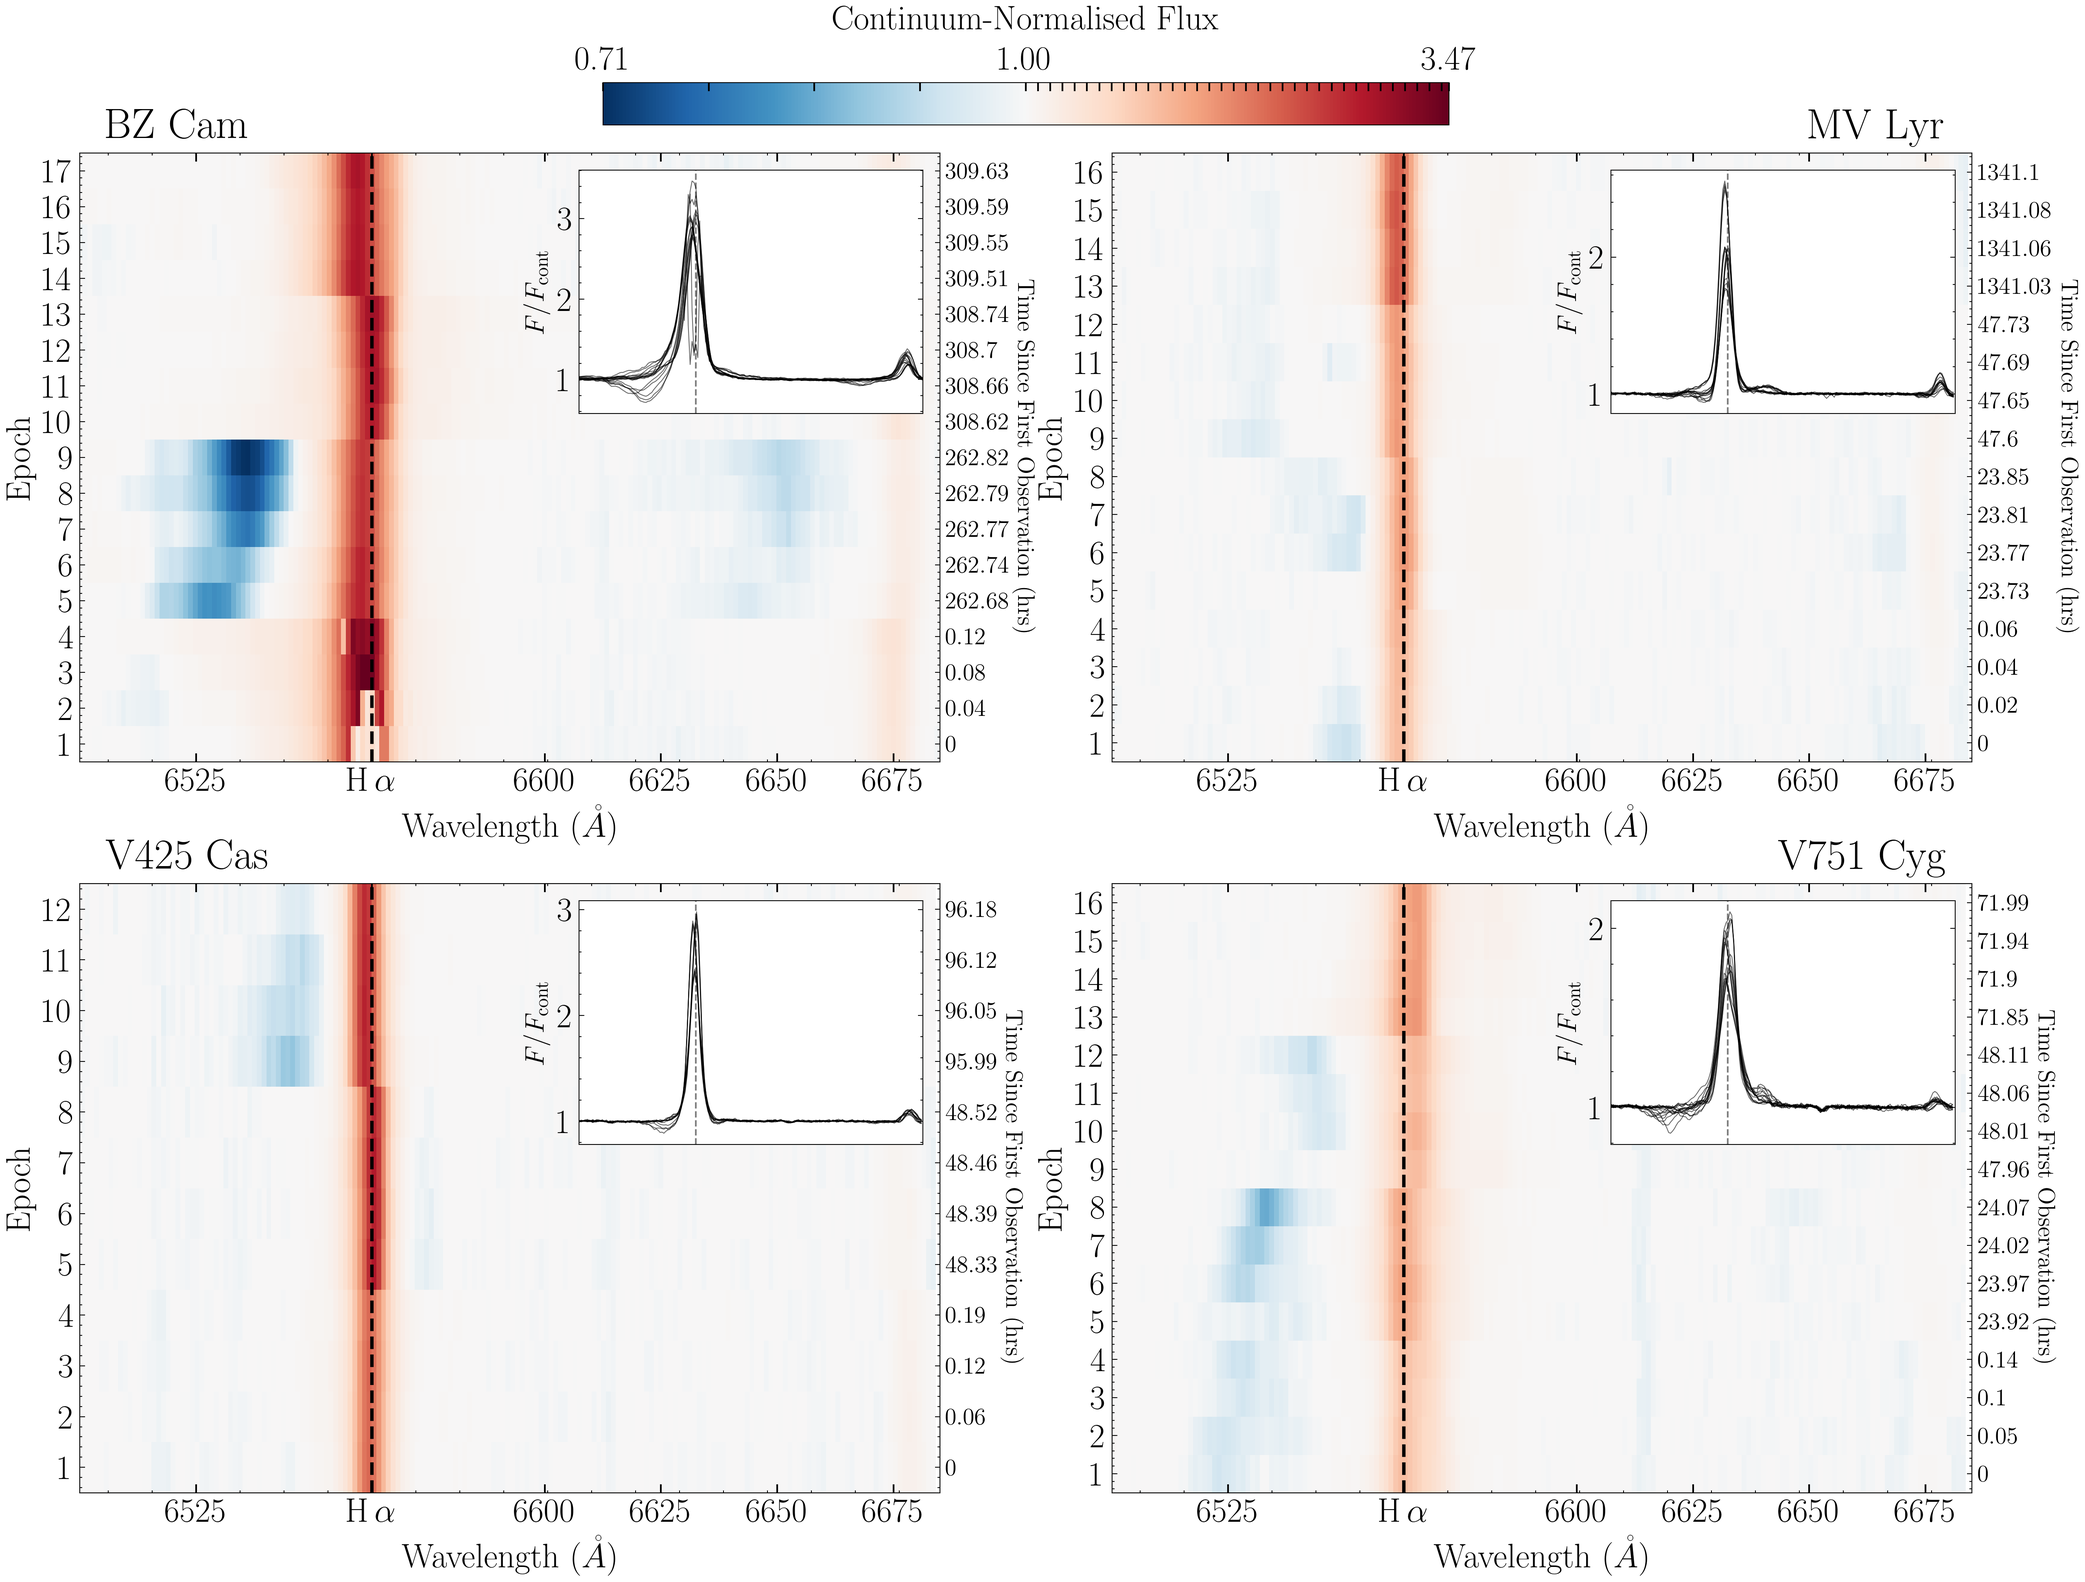
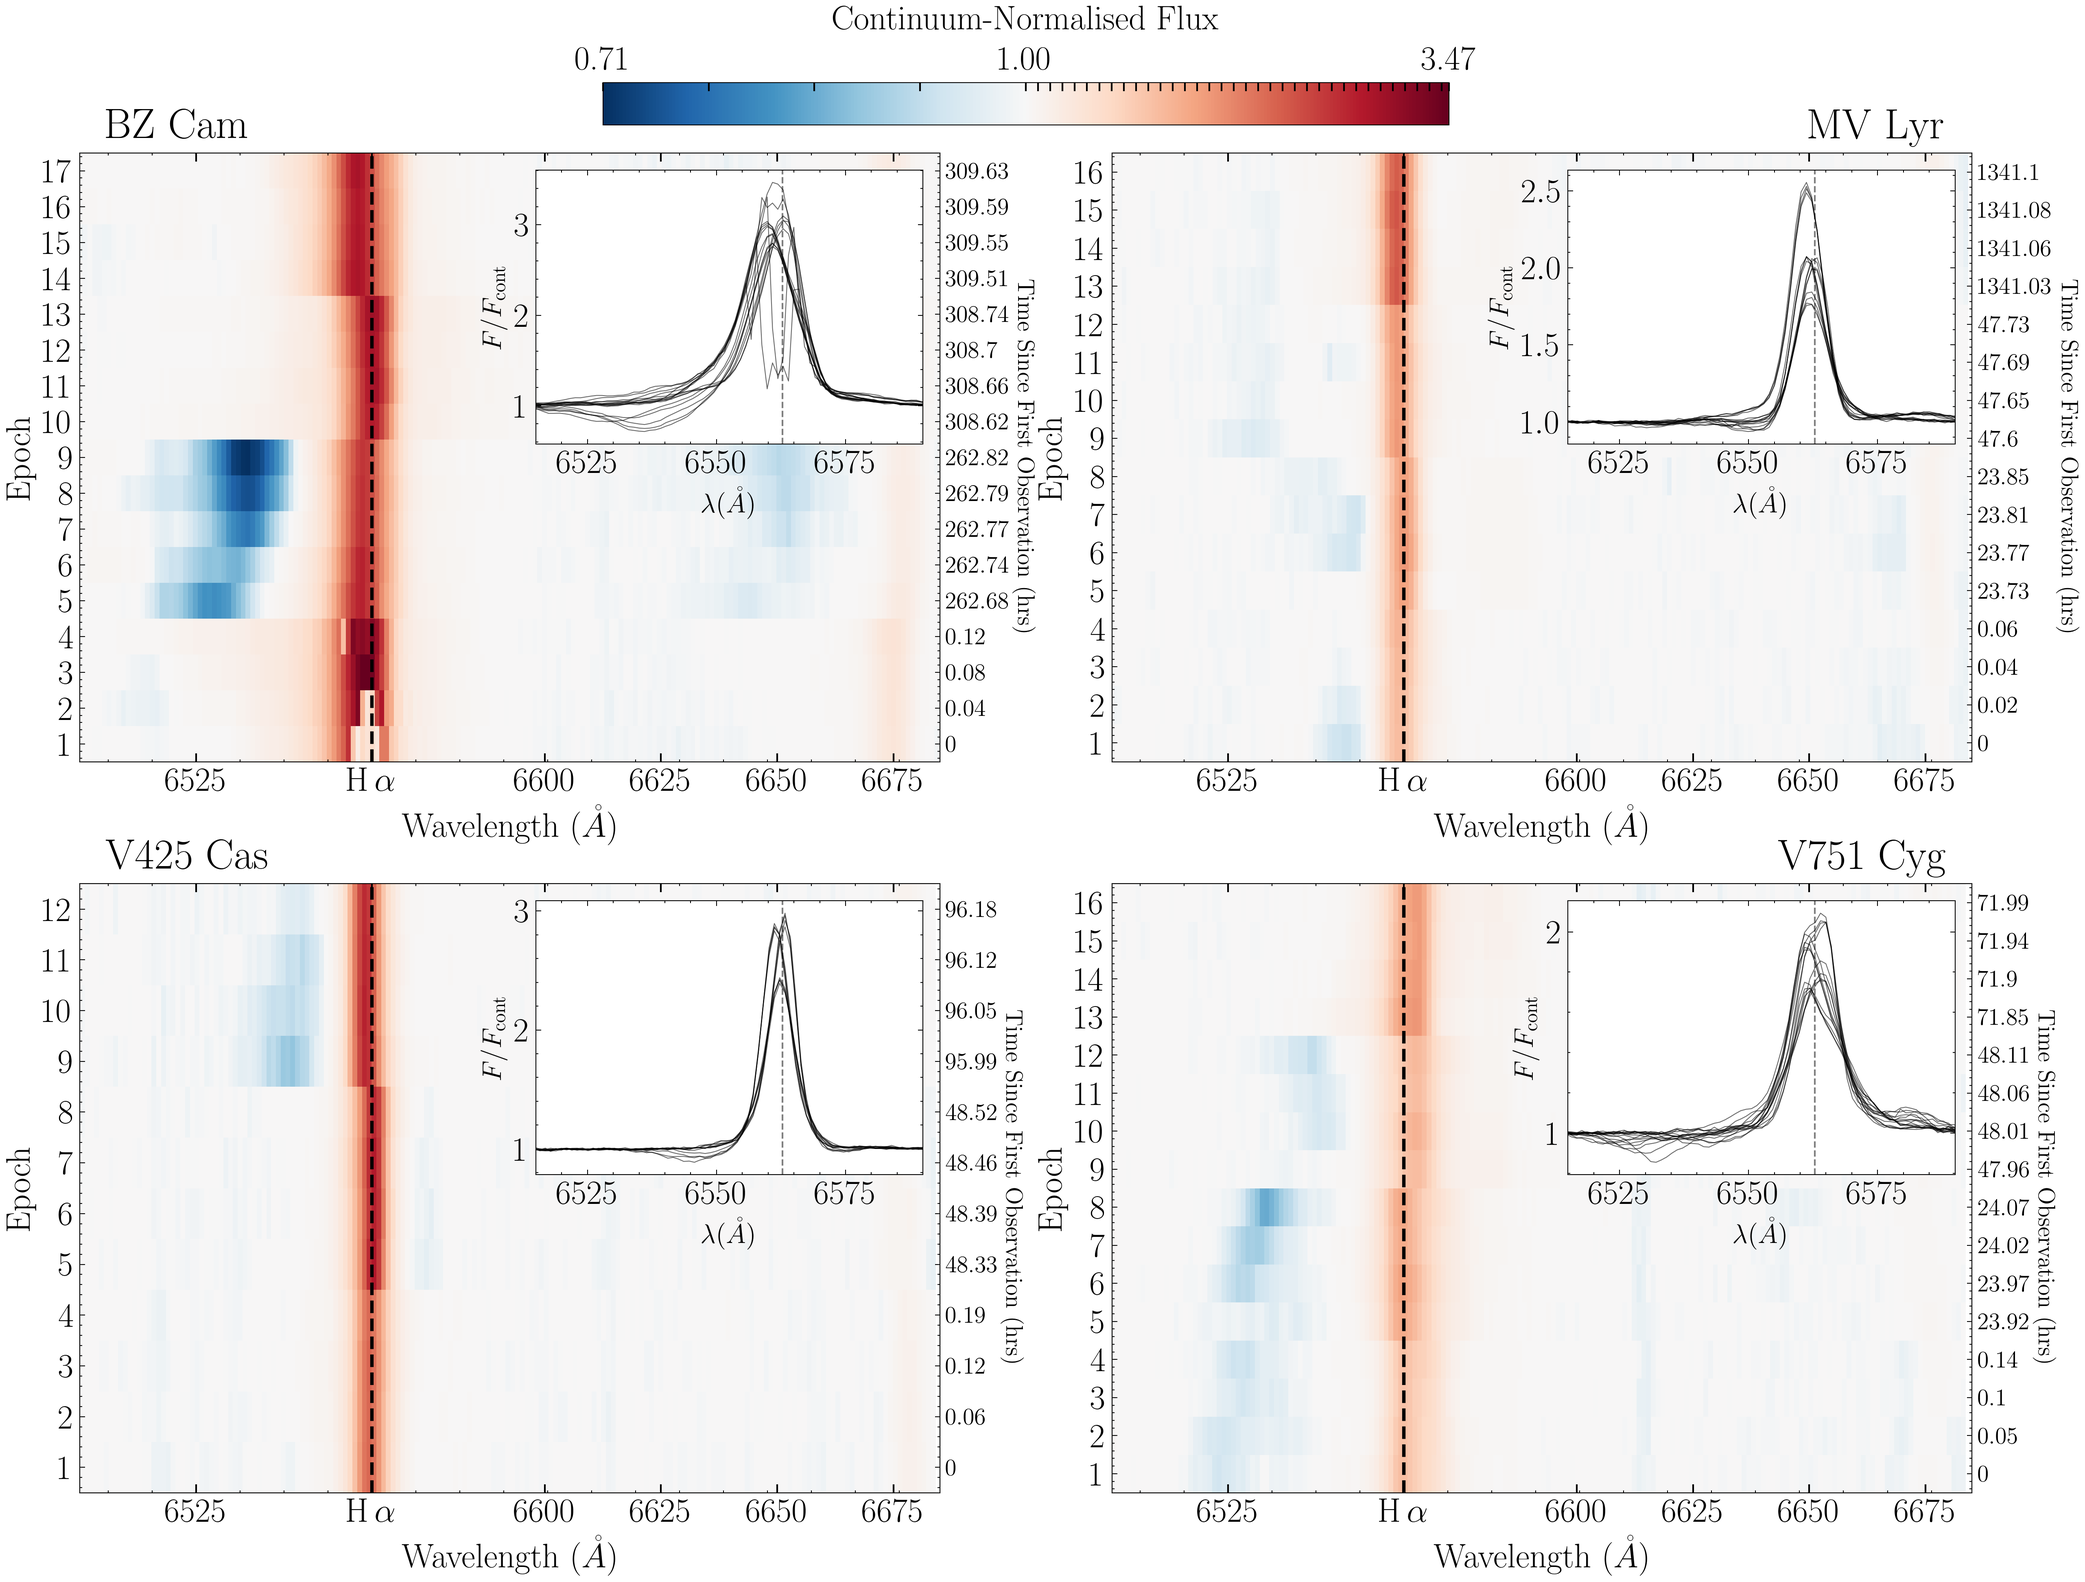
Updated plots for accepted paper

diff --git a/paper_plots_v2.py b/paper_plots_v2.py
@@ -568,6 +568,9 @@ axs.scatter(0,0, color='black', marker='+')
 x = [-30, -30, 30, 30, -30, 0, 0, 30]
 y = [-30, 30, 30, -30, 0, -30, 30, 0]
 axs.scatter(x, y, color='black', marker='o')
+x_2 = [-35, 35]
+y_2 = [35,-35]
+axs.scatter(x_2, y_2, color='black', marker='o')
 
 axs.set_xlabel('Red Wing EW Excess')
 axs.set_ylabel('Blue Wing EW Excess')
@@ -582,23 +585,47 @@ axs.text(13.5, 17, 'Line Profiles', fontsize=17, ha='center', va='center', rotat
 # axs.plot(np.linspace(-50, 50, 100), np.linspace(-50, 50, 100), color='black', linestyle='--', alpha=0.5)
 
 axs.plot(np.linspace(-50, 50, 100), -np.linspace(-50, 50, 100), color='black', linestyle='--', alpha=0.5)
+axs.text(-33, 36, '1')
+axs.text(2, 31, '2')
+axs.text(33, 29, '3')
+axs.text(32, 1, '4')
+axs.text(32, -29, '5')
+axs.text(37, -34, '6')
+axs.text(2, -29, '7')
+axs.text(-27, -31, '8')
+axs.text(-28, 1, '9')
+axs.text(-28, 31, '10')
 
 axs.set_xlim(-40, 40)
 axs.set_ylim(-40, 40)
 
 # title labels
-labels = ['Enhanced Blue/\nSuppressed Red Wings', 'Suppressed Red Wing', 'Suppressed Wings', 'Enhanced Wings', 'Enhanced Red Wing', 'Suppressed Blue/\nEnhanced Red Wings', 'Enhanced Blue Wing', 'Suppressed Blue Wing' ]
-
+labels = ['10 - Enhanced Blue/\nSuppressed Red Wings', '9 - Suppressed Red Wing', '8 - Suppressed Wings', '3 - Enhanced Wings', '4 - Enhanced Red Wing', '5 - Suppressed Blue/\nEnhanced Red Wings', '2 - Enhanced Blue Wing', '7 - Suppressed Blue Wing' ]
+labels_2 = ['1 - Inverse P-Cygni', '6 - P-Cygni']
 x_values = [-5, -4, -3, -2, -1, 0, 1, 2, 3, 4, 5]
+# theory_datasets = [
+#     [0, 0, 0, 0.1, 0.5, 1.15, 0.4, -0.15, 0, 0, 0], # Inverse P-Cygni
+#     [0, 0, 0, 0, 0.25, 1.2, 0, 0, 0, 0, 0], # Increased Red Absorption
+#     [0, 0, 0, 0, 0, 1.25, 0, 0, 0, 0, 0], # Broad Absorption Wings
+#     [0, 0, 0, 0.1, 0.4, 1.15, 0.4, 0.1, 0, 0, 0], # Broad Emission Wings
+#     [0, 0, 0, 0, 0.25, 1.15, 0.5, 0.1, 0, 0, 0], # Increased Red Emission
+#     [0, 0, 0, -0.15, 0.44, 1.15, 0.5, 0.1, 0, 0, 0], # P-Cygni
+#     [0, 0, 0, 0.1, 0.5, 1.15, 0.25, 0, 0, 0, 0], # Increased Blue Emission
+#     [0, 0, 0, 0, 0, 1.2, 0.25, 0, 0, 0, 0], # Increased Blue Absorption
+# ]
 theory_datasets = [
-    [0, 0, 0, 0.1, 0.5, 1.15, 0.4, -0.15, 0, 0, 0], # Inverse P-Cygni
-    [0, 0, 0, 0, 0.25, 1.2, 0, 0, 0, 0, 0], # Increased Red Absorption
-    [0, 0, 0, 0, 0, 1.25, 0, 0, 0, 0, 0], # Broad Absorption Wings
-    [0, 0, 0, 0.1, 0.4, 1.15, 0.4, 0.1, 0, 0, 0], # Broad Emission Wings
-    [0, 0, 0, 0, 0.25, 1.15, 0.5, 0.1, 0, 0, 0], # Increased Red Emission
-    [0, 0, 0, -0.15, 0.44, 1.15, 0.5, 0.1, 0, 0, 0], # P-Cygni
-    [0, 0, 0, 0.1, 0.5, 1.15, 0.25, 0, 0, 0, 0], # Increased Blue Emission
-    [0, 0, 0, 0, 0, 1.2, 0.25, 0, 0, 0, 0], # Increased Blue Absorption
+    [0, 0, 0, 0.1, 0.5, 1.15, 0, 0, 0, 0, 0], # Inverse P-Cygni top left
+    [0, 0, 0, 0, 0.25, 1.2, 0, 0, 0, 0, 0], # Increased Red Absorption middle left
+    [0, 0, 0, 0, 0, 1.25, 0, 0, 0, 0, 0], # Broad Absorption Wings bottom left
+    [0, 0, 0, 0.1, 0.4, 1.15, 0.4, 0.1, 0, 0, 0], # Broad Emission Wings top right
+    [0, 0, 0, 0, 0.25, 1.15, 0.5, 0.1, 0, 0, 0], # Increased Red Emission middle right
+    [0, 0, 0, 0, 0, 1.15, 0.5, 0.1, 0, 0, 0], # P-Cygni bottom right
+    [0, 0, 0, 0.1, 0.5, 1.15, 0.25, 0, 0, 0, 0], # Increased Blue Emission top
+    [0, 0, 0, 0, 0, 1.2, 0.25, 0, 0, 0, 0], # Increased Blue Absorption bottom
+]
+theory_datasets_2 = [
+    [0, 0, 0.02, 0.2, 0.6, 1.15, 0, -0.18, 0, 0, 0], # Inverse P_Cygni
+    [0, 0, 0, -0.18, 0, 1.15, 0.6, 0.2, 0.02, 0, 0] # P-cygni
 ]
 
 x_values_detailed = np.linspace(-5, 5, 100)
@@ -607,20 +634,41 @@ for i in range(8):
     array = np.interp(x_values_detailed, x_values, theory_datasets[i])
     theory_datasets_detailed.append(gaussian_filter1d(array, 2.5))
 
+theory_datasets_detailed_2 = []
+for i in range(2):
+    array = np.interp(x_values_detailed, x_values, theory_datasets_2[i])
+    theory_datasets_detailed_2.append(gaussian_filter1d(array, 2.5))
+
 plt.xticks(visible=False)
 plt.yticks(visible=False)
 
 # Define positions for the mini graphs
 positions = [
-    (-85, 22),
-    (-85, -18.5),
-    (-85, -60),
-    (47, 22),
-    (47, -18.5),
-    (47, -60),
+    (-85, 1),
+    (-85, -40),
+    (-85, -82),
+    (47, 43),
+    (47, 1),
+    (47, -40),
     (-17.5, 43),
-    (-17.5, -85)
+    (-17.5, -82)
 ]
+# positions = [
+#     (-85, 22),
+#     (-85, -18.5),
+#     (-85, -60),
+#     (47, 22),
+#     (47, -18.5),
+#     (47, -60),
+#     (-17.5, 43),
+#     (-17.5, -85)
+# ]
+
+positions_2 = [
+    (-85, 43),
+    (47, -82)
+]
+
 
 # Plot temporary Gaussian in mini graphs
 i = 0
@@ -643,8 +691,73 @@ for x_pos, y_pos in positions:
         labelbottom=False,    # Hide x-axis tick labels
         labelleft=False       # Hide y-axis tick labels
     )
-    ax_inset.set_title(labels[i], fontdict={'fontsize': 14})
-    ax_inset.set_ylim(-0.3, 1.2)
+    if i in [0,5]:
+        ax_inset.set_title(
+            labels[i],
+            fontsize=14,
+            loc='center',
+            y=0.77,
+            bbox=dict(
+                boxstyle='round,pad=0.15',
+                facecolor='whitesmoke',
+                edgecolor='lightgrey',
+                alpha=1
+            )
+        )
+    else: 
+        ax_inset.set_title(
+            labels[i],
+            fontsize=14,
+            loc='center',
+            y=0.85,
+            bbox=dict(
+                boxstyle='round,pad=0.15',
+                facecolor='whitesmoke',
+                edgecolor='lightgrey',
+                alpha=1
+            )
+        )
+    ax_inset.set_ylim(-0.2, 1.38)
+    #ax_inset.text(-4.5,1.0, f'{i+1}', fontsize=14, color='black', fontweight='bold')
+    i += 1
+
+
+i = 0
+for x_pos, y_pos in positions_2:
+    # Create an inset axis at each position
+    ax_inset = axs.inset_axes([x_pos, y_pos, 35, 35],
+                              transform=axs.transData)
+    # Generate data for Gaussian plot
+    x = np.linspace(-5, 5, 100)
+    y = np.exp(-x**2)
+    # Plot Gaussian in inset axes
+    ax_inset.plot(x, y, color='red', linestyle='--')
+    ax_inset.plot(x_values_detailed, theory_datasets_detailed_2[i], color='black')
+    # Plot vertical zero‐line in blue
+    ax_inset.axvline(x=0, color='black', linestyle='--', alpha=0.5)
+    # Change inset spines and ticks to blue
+    for spine in ax_inset.spines.values():
+        spine.set_color('black')
+    ax_inset.tick_params(
+        axis='both',
+        which='both',
+        labelbottom=False,
+        labelleft=False,
+        colors='black'
+    )
+    ax_inset.set_title(
+        labels_2[i],
+        fontsize=14,
+        loc='center',
+        y=0.85,
+        bbox=dict(
+            boxstyle='round,pad=0.15',
+            facecolor='whitesmoke',
+            edgecolor='lightgrey',
+            alpha=1
+        )
+    )
+    ax_inset.set_ylim(-0.2, 1.38)
     i += 1
 
 # Create custom legend
@@ -652,7 +765,7 @@ custom_lines = [Line2D([0], [0], color='red', linestyle='--'),
                 Line2D([0], [0], color='black'),
                 Line2D([0], [0], color='black', linestyle='--', alpha=0.5)]
 
-fig.legend(custom_lines, ['Fixed Gaussian', 'Hypothetical Line Profile', 'Rest Wavelength'], loc='upper center', ncol=1, bbox_to_anchor=(-0.1, -0.13))
+fig.legend(custom_lines, ['Fixed Gaussian', 'Hypothetical Line Profile', 'Rest Wavelength'], loc='upper center', ncol=3, bbox_to_anchor=(0.5, -0.29))
 plt.savefig('plots/Figure_theory_diag_diagram', dpi=dpi)
 plt.show()
 
@@ -660,13 +773,13 @@ plt.show()
 ################################################################################
 print('FIGURE 2: MASK FITTING METHODOLOGY')
 ################################################################################
-
+# NOTE: Run FWHM CALCULATIONS FIRST
 H_alpha = 6562.819
 blue_peak_mask = (22, 55)  # number of angstroms to cut around the peak, blue minus.
 red_peak_mask = (22, 55)  # number of angstroms to cut around the peak, red plus.
 
 final_results = all_results[11]  # 45° inclination
-run =701
+run = 701
 
 fig, ax = plt.subplots(1, 1, figsize=(7, 7), sharey=True)
 ax.plot(final_results['wavelength_grid'][run],
@@ -684,7 +797,7 @@ ax.plot(final_results['wavelength_grid'][run],
             label='Fitted Continuum',
             color='blue'
             )
-ax.axvline(x=H_alpha, color='black', linestyle='--', alpha=0.5, label=r'$H\alpha$')
+ax.axvline(x=H_alpha, color='black', linestyle='-.', alpha=0.5, label=r'$H\alpha$')
 ax.set_xlabel('Wavelength ($\mathring{A}$)')
 ax.set_ylabel(r'Flux (erg s$^{-1}$ cm$^{-2}$ $\mathring{A}^{-1}$)')
 
@@ -694,6 +807,35 @@ ax.axvspan(H_alpha - blue_peak_mask[1], H_alpha - blue_peak_mask[0], color='blue
 ax.axvline(x=H_alpha + red_peak_mask[0], color='red', linestyle='--', alpha=0.5)
 ax.axvline(x=H_alpha + red_peak_mask[1], color='red', linestyle='--', alpha=0.5)
 ax.axvspan(H_alpha + red_peak_mask[0], H_alpha + red_peak_mask[1], color='red', alpha=0.1, label='Red Window')
+fwhmover2 = fwhm_results[11]['fwhm'][run]/2
+ewover2 = ew_results[11]['ew'][run]/2
+# continuum level at Hα
+Fc = np.interp(H_alpha,
+               final_results['wavelength_grid'][run],
+               final_results['fit_con'][run])
+
+# current axis limits
+y_min, y_max = ax.get_ylim()
+
+# draw EW rectangle only up to the continuum height
+ax.axvspan(H_alpha - ewover2, H_alpha + ewover2,
+           ymin=(0 - y_min)/(y_max - y_min),
+           ymax=(Fc - y_min)/(y_max - y_min),
+           color='grey', alpha=0.3, label='EW', zorder=-1)
+#add grey boundary lines
+ax.axvline(x=H_alpha - ewover2, ymax=(Fc - y_min)/(y_max - y_min), color='grey', linestyle='--', alpha=0.7, lw=1)
+ax.axvline(x=H_alpha + ewover2, ymax=(Fc - y_min)/(y_max - y_min), color='grey', linestyle='--', alpha=0.7, lw=1)
+y_EW = Fc * 0.75   # a touch above the continuum so it’s visible
+ax.annotate('', xy=(H_alpha + ewover2, y_EW),
+                 xytext=(H_alpha - ewover2, y_EW),
+                 arrowprops=dict(arrowstyle='<->', color='grey', lw=2))
+
+ax.axvspan(H_alpha - fwhmover2, H_alpha + fwhmover2, ymin=(0 - y_min)/(y_max - y_min), color='orange', alpha=0.3, label='FWHM')
+ax.axvline(x=H_alpha - fwhmover2, color='orange', linestyle='--', alpha=0.8, lw=1)
+ax.axvline(x=H_alpha + fwhmover2, color='orange', linestyle='--', alpha=0.8, lw=1)
+# ax.annotate('', xy=(H_alpha + fwhmover2+1, 1e-12),
+#                  xytext=(H_alpha - fwhmover2-1, 1e-12),
+#                  arrowprops=dict(arrowstyle='<->', color='orange', lw=1, shrinkA=0, shrinkB=0))
 
 # Get the y-position for the annotations
 y_min, y_max = ax.get_ylim()
@@ -722,7 +864,7 @@ handles, labels = ax.get_legend_handles_labels()
 fig.subplots_adjust(wspace=0, top=0.85)
 
 # Add global legend
-fig.legend(handles, labels, loc='upper center', ncol=len(labels)/3, bbox_to_anchor=(0.48, 1.03))
+fig.legend(handles, labels, loc='upper center', ncol=len(labels)/3, bbox_to_anchor=(0.48, 1.1))
 # add white space on the right side of the plot
 plt.subplots_adjust(right=0.83)
 plt.savefig('plots/Figure_mask_fit_method', dpi=dpi)

diff --git a/Sirocco_spectrum_plotter.py b/Sirocco_spectrum_plotter.py
@@ -270,9 +270,9 @@ for i in range(5):
 # ax[4].plot(wavelengths[run_num], fluxes[run_num][:, -1])
 plt.show()
 
-# %% FIGURE 4+ CV PAPER 4 CUENO SUBPLOTS Originial
+# %% FIGURE 3 CV PAPER 4 CUENO SUBPLOTS Originial
 ################################################################################
-print('FIGURE 4: CV PAPER 4 CUNEO SUBPLOTS')
+print('FIGURE 3: CV PAPER 4 CUNEO SUBPLOTS')
 ################################################################################
 
 index_limits = (0,62) # 0,17
@@ -493,7 +493,7 @@ for axis, sys_name in enumerate(unique_systems):
     #if axis% 2 == 0:
     axins = inset_axes(
         ax,
-        width="40%", height="40%",
+        width="45%", height="45%",
         loc=locs[axis],
         bbox_to_anchor=(0.0,0,1,1),
         bbox_transform=ax.transAxes,
@@ -505,10 +505,11 @@ for axis, sys_name in enumerate(unique_systems):
         axins.tick_params(axis='y', which='major')
     for row in obs_flux:
         axins.plot(wave, row, lw=0.5, color='black', alpha=0.6)
-    axins.set_xticks([])
+    #axins.set_xticks([])
     #axins.set_yticks([1,2,3])
-    axins.set_xlim(6500, 6685)
+    axins.set_xlim(6515, 6590)
     axins.set_ylabel(r'$F/F_{\mathrm{cont}}$', fontsize=16)
+    axins.set_xlabel(r'$\lambda$($\mathring{A}$)', fontsize=16)
     axins.axvline(x=H_alpha, color='black', linestyle='--', alpha=0.5)
     # thin frame for the inset
     for spine in axins.spines.values():
@@ -602,7 +603,7 @@ for axis, run_num in enumerate(run_nums):
         common_wave, mean_spectra,
         lw=1.5, color='black', alpha=0.6, label = 'Mean'
     )
-    axins.legend(loc ='upper right', fontsize=14, frameon=False)
+    axins.legend(loc ='upper left', fontsize=14, frameon=False)
     
     if axis == 2:
         # Build horizontal parameter string
@@ -611,7 +612,7 @@ for axis, run_num in enumerate(run_nums):
             rf'$\dot{{M}}_{{wind}}:{to_latex_sci(parameter_table[run_num, 2])}\enspace\enspace$',
             rf'$d:{parameter_table[run_num, 3]:.2f}\enspace\enspace$',
             rf'$\alpha:{parameter_table[run_num, 4]:.2f}\qquad\qquad\qquad\;$',
-            rf'$l:{to_latex_sci(parameter_table[run_num, 5])}\qquad\quad\;$',
+            rf'$R_s:{to_latex_sci(parameter_table[run_num, 5])}\qquad\,\,$',
             rf'$\beta:{parameter_table[run_num, 6]:.2f}\enspace\enspace$'
         ]
 
@@ -624,7 +625,7 @@ for axis, run_num in enumerate(run_nums):
             rf'$\dot{{M}}_{{wind}}:{to_latex_sci(parameter_table[run_num, 2])}\enspace\enspace$',
             rf'$d:{parameter_table[run_num, 3]:.2f}\enspace\enspace$',
             rf'$\alpha:{parameter_table[run_num, 4]:.2f}\qquad\qquad\qquad\;$',
-            rf'$l:{to_latex_sci(parameter_table[run_num, 5])}\qquad\quad\;\;$',
+            rf'$R_s:{to_latex_sci(parameter_table[run_num, 5])}\qquad\;\,\,$',
             rf'$\beta:{parameter_table[run_num, 6]:.2f}\enspace\enspace$'
         ]
 
@@ -704,9 +705,10 @@ for axis, run_num in enumerate(run_nums):
     # finalize inset styling
     axins.axvline(x=H_alpha, color='black', linestyle='--', alpha=0.5)
     axins.set_ylabel(r'$F/F_{\mathrm{cont}}$', fontsize=16)
-    axins.set_xticks([])
+    axins.set_xlabel(r'$\lambda$($\mathring{A}$)', fontsize=16)
+    #axins.set_xticks([])
     #axins.set_yticks()
-    axins.set_xlim(6500, 6685)
+    axins.set_xlim(6515, 6590)
     axins.set_title('Observations vs Model', fontsize=16, pad=3)
     for spine in axins.spines.values():
         spine.set_linewidth(0.5)
